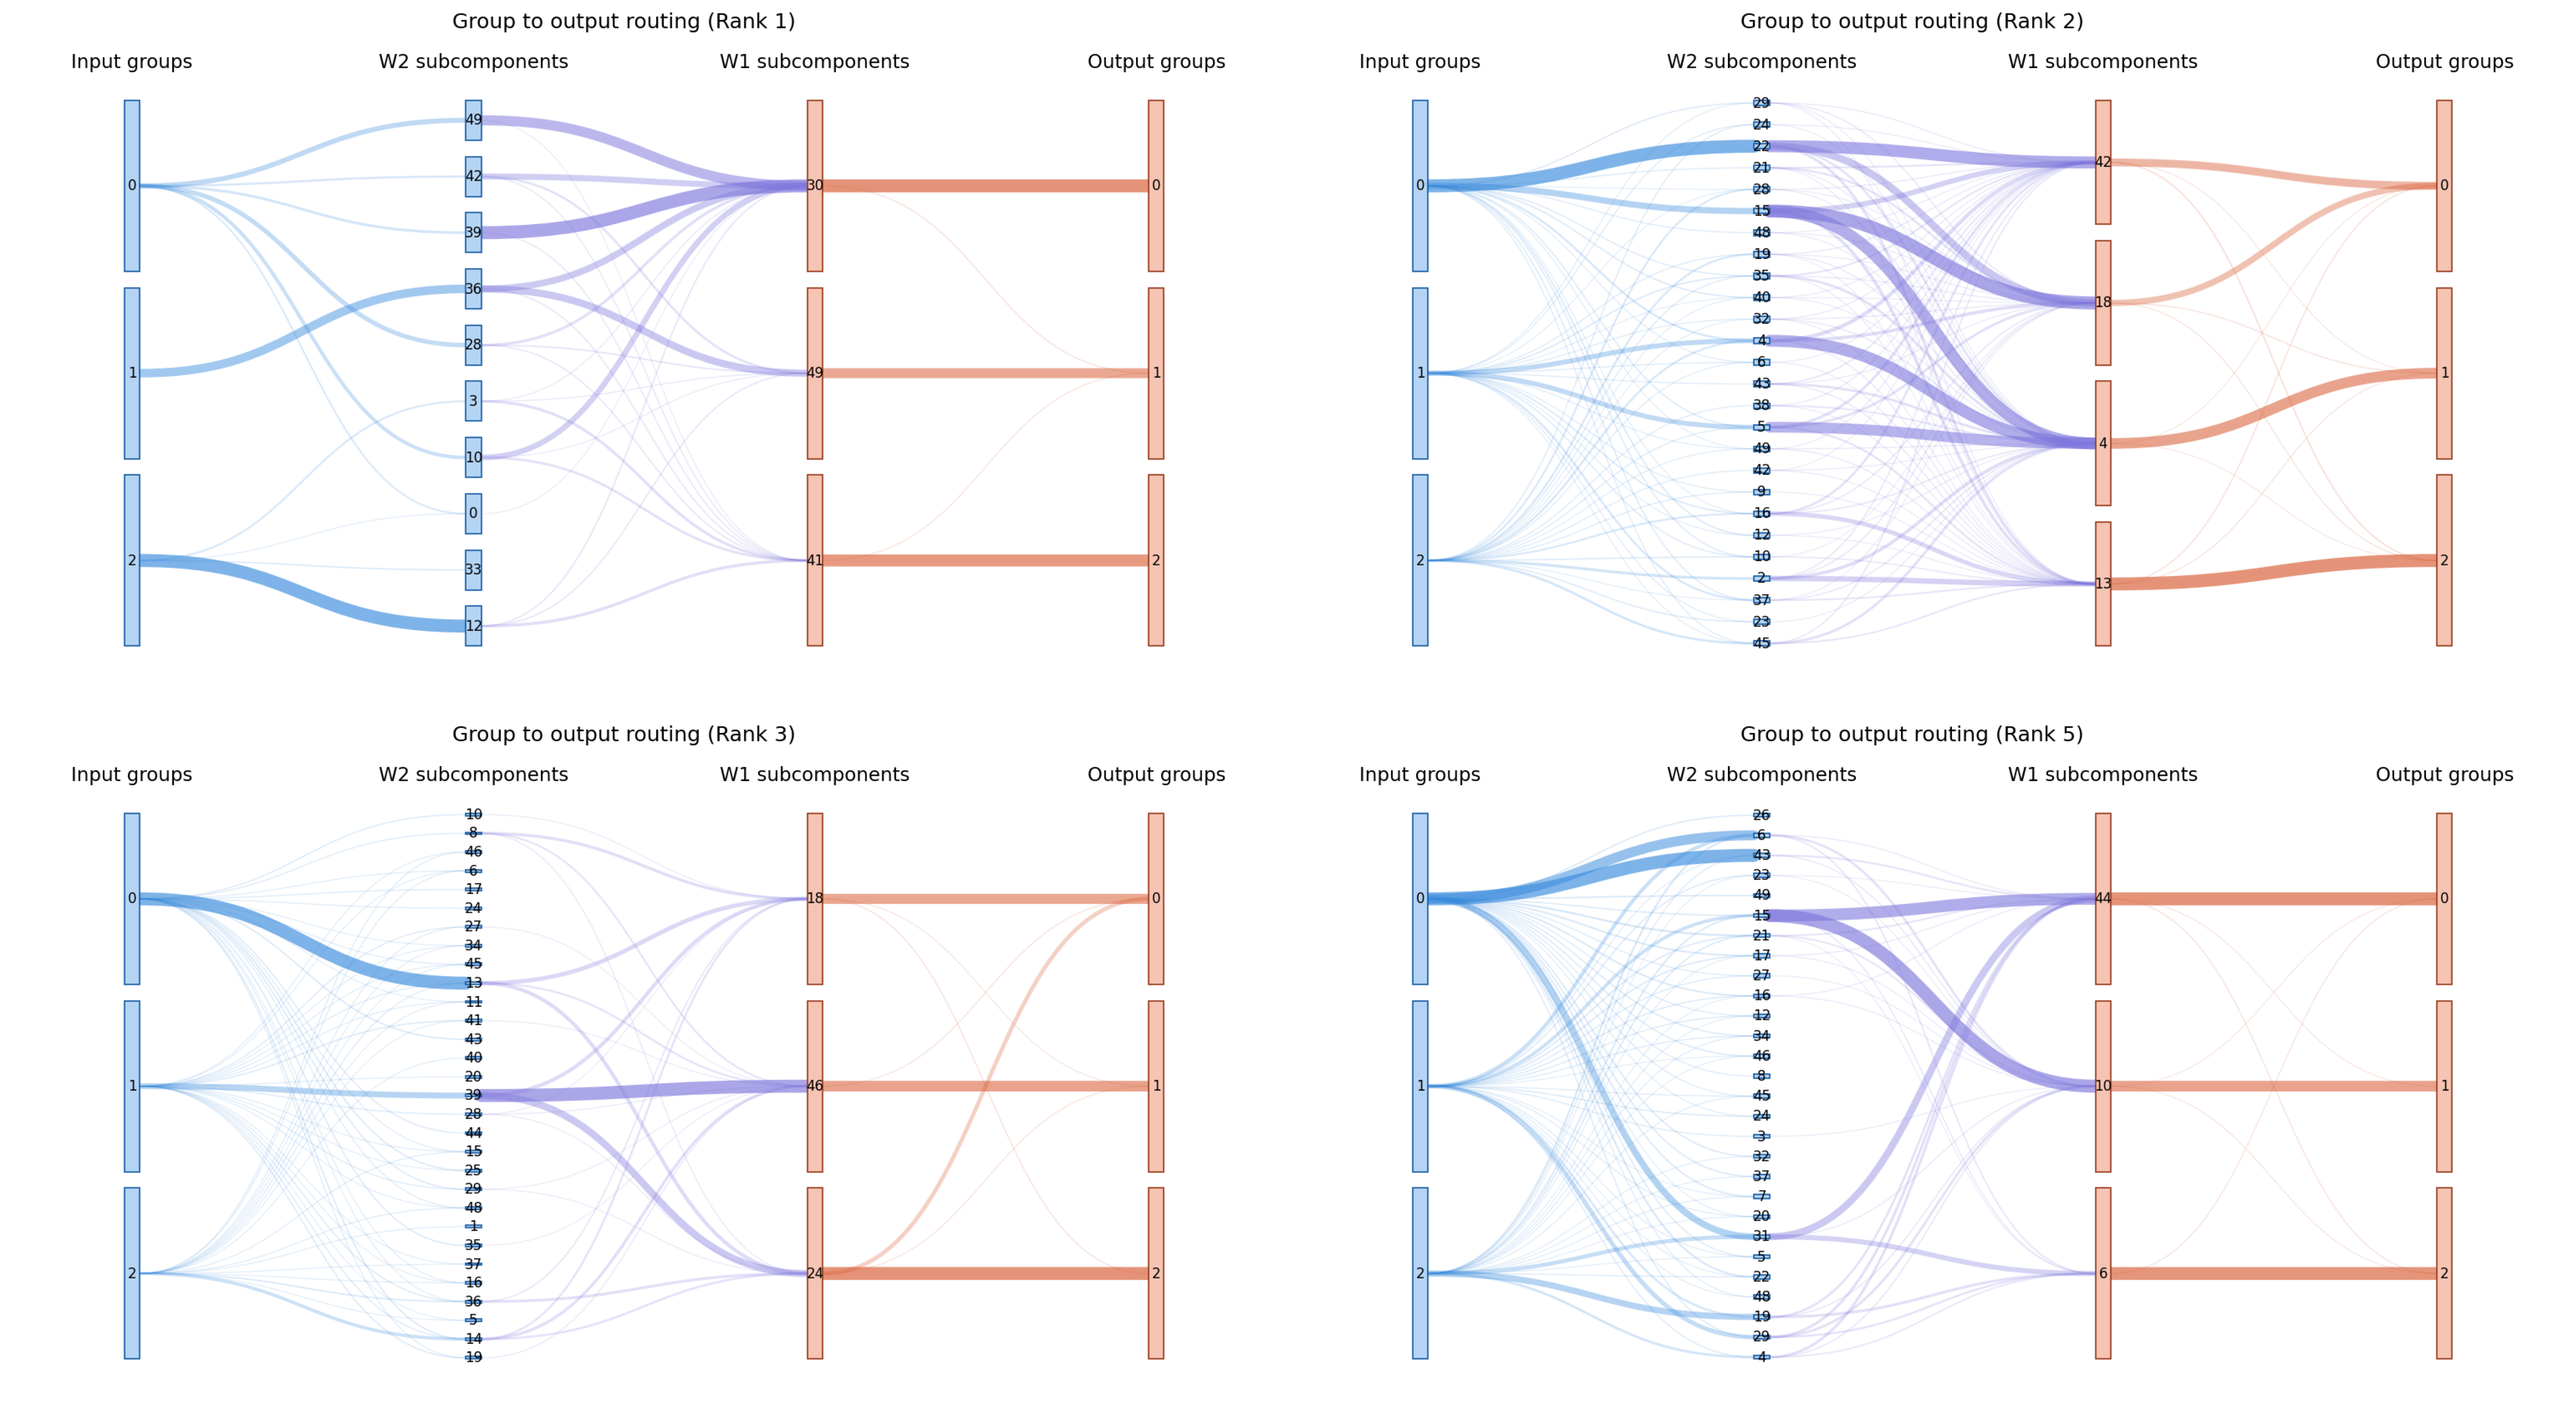
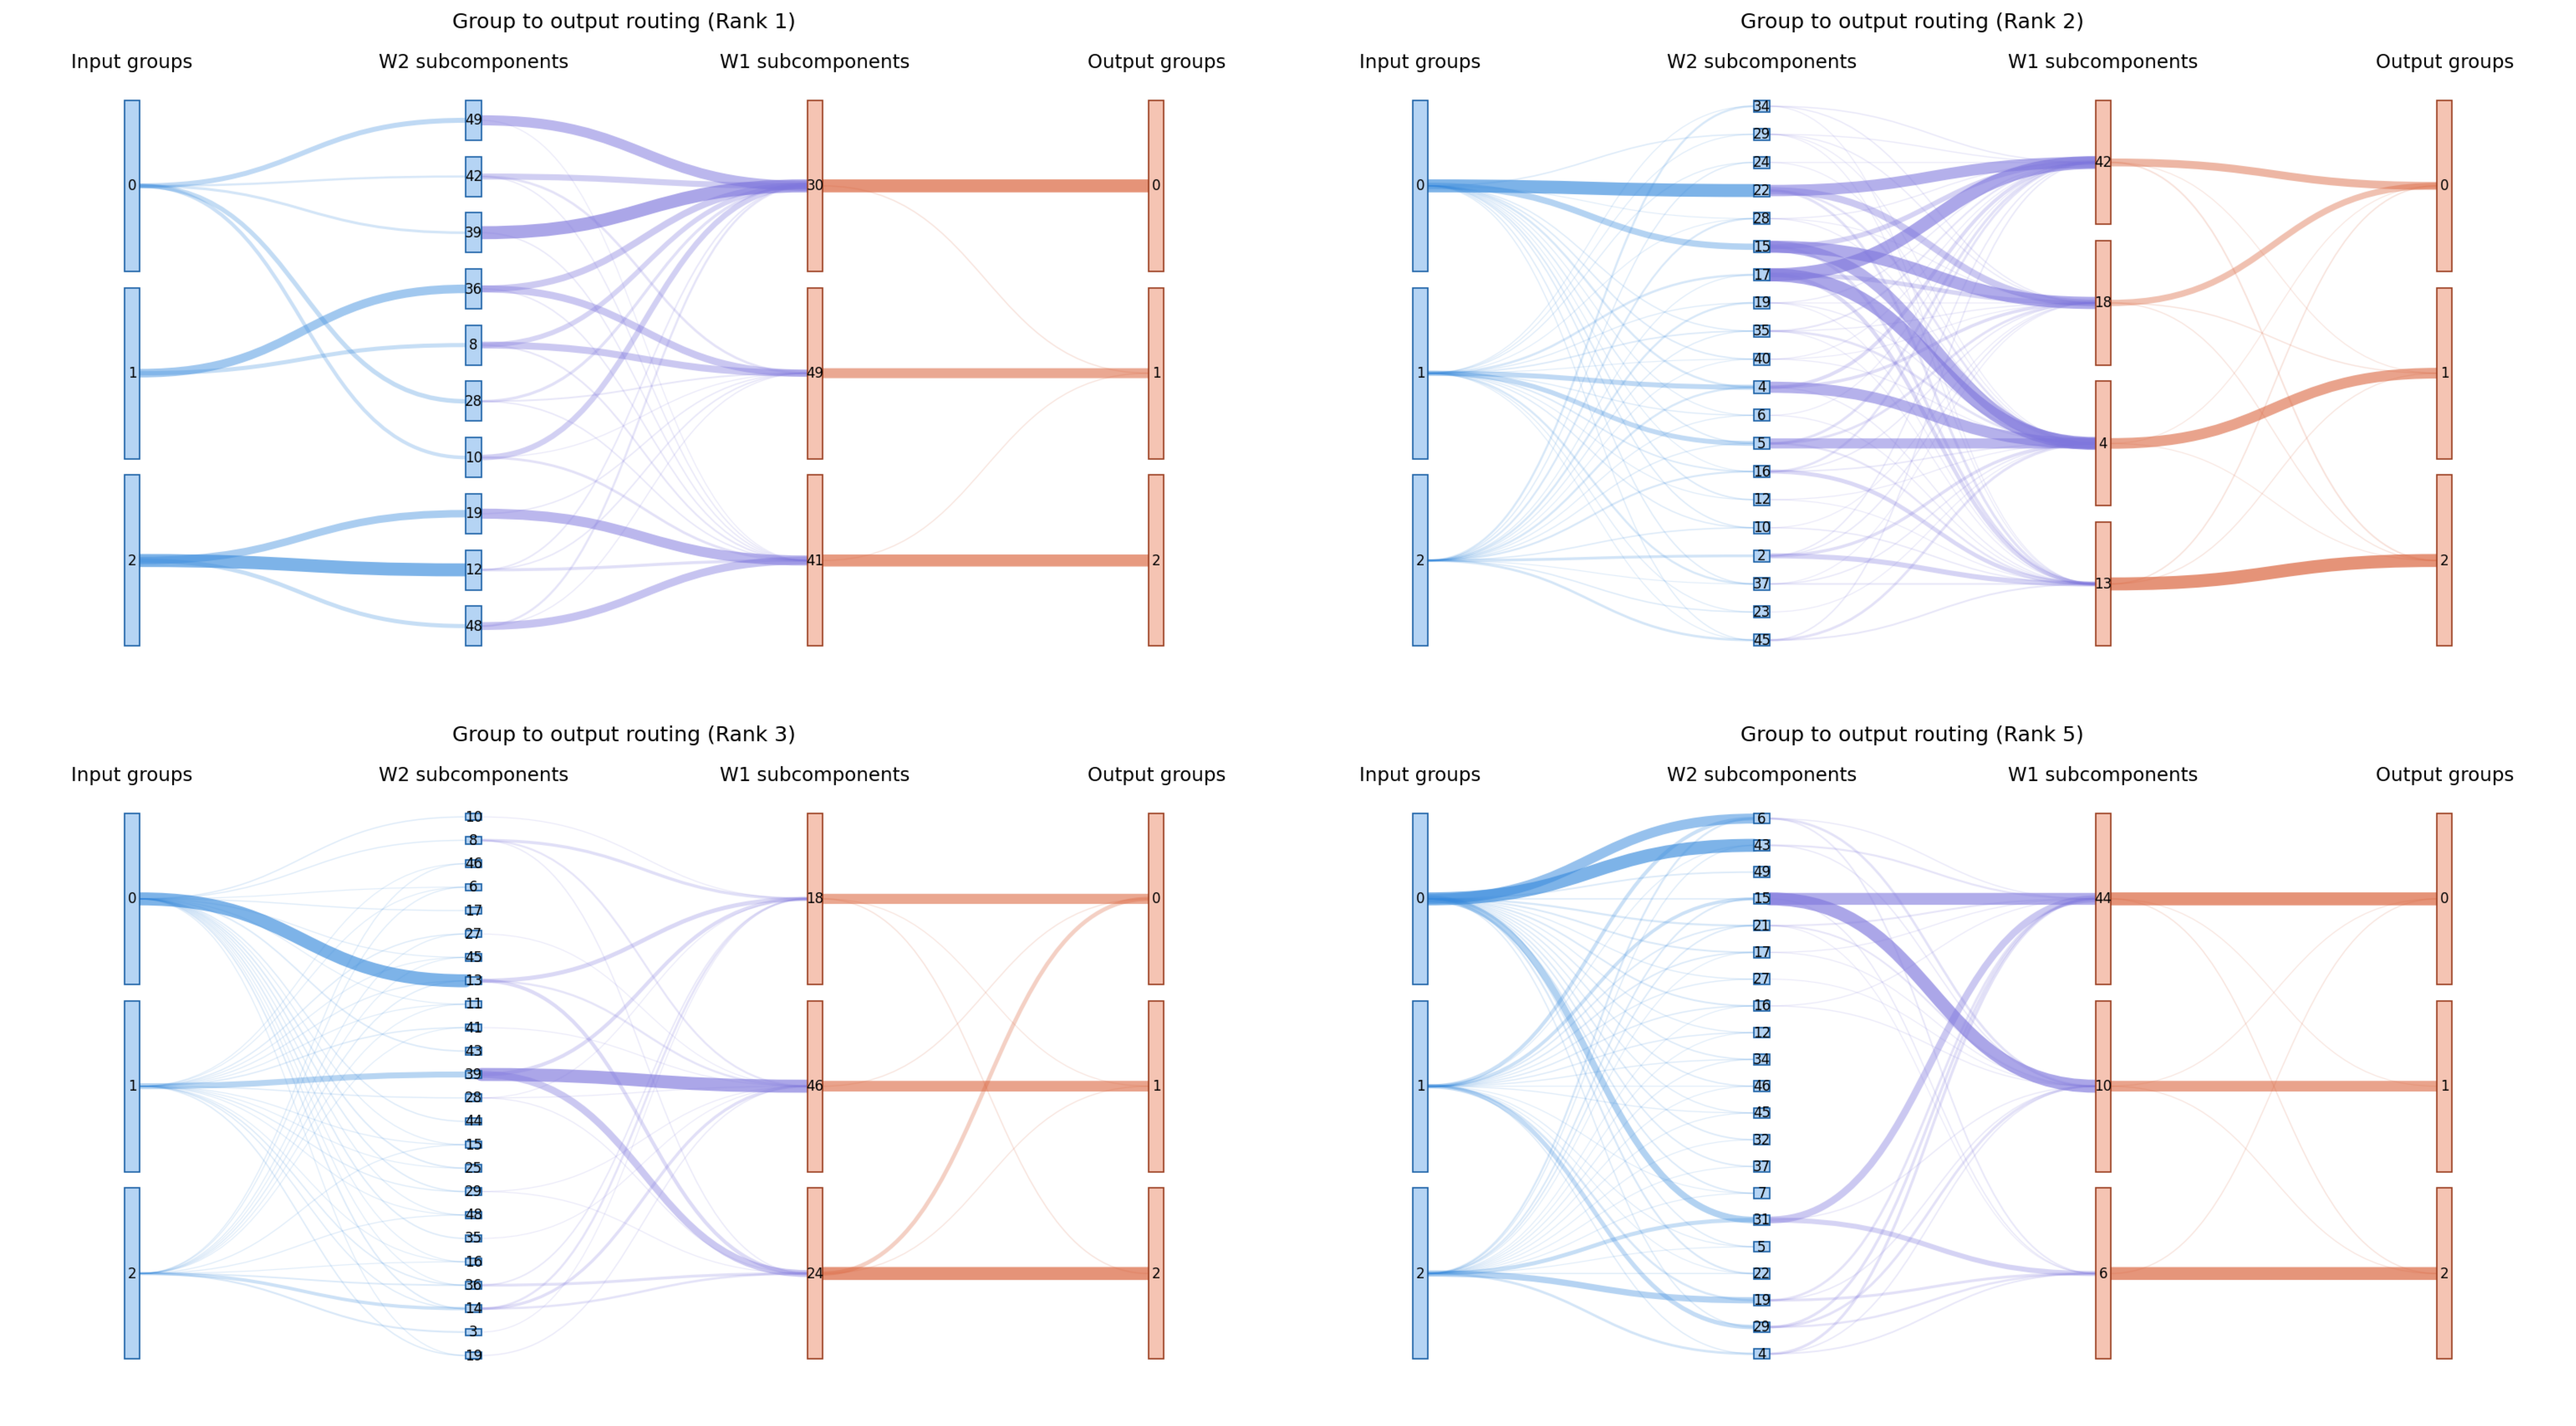
new images

diff --git a/spd/experiments/toy_model_of_geometry/geometry_analyzer.py b/spd/experiments/toy_model_of_geometry/geometry_analyzer.py
@@ -371,11 +371,14 @@ def pick_components(read, write, coverage=0.95, min_mass=0):
     #contrib2 = write.sum(axis=1)     # (C2,) total write per output subcomponent
     
     #Resorted to this version as the components would cancel each other out otherwise.
-    contrib1 = np.maximum(read, 0).sum(axis=1)      # (C1,) total positive read per input subcomponent
-    contrib2 = np.maximum(write, 0).sum(axis=1)     # (C2,) total positive write per output subcomponent
+    contrib1 = np.abs(read).sum(axis=1)    # (C1,) input-side inflow
+    contrib2 = np.abs(write).sum(axis=1)   # (C2,) output-side outflow
 
     def cover(v):
-
+        live = np.where(v >= min_mass)[0]
+        if live.size == 0:
+            raise ValueError("No components meet the minimum mass requirement.")
+        
         order = np.argsort(-v)
         cum = np.cumsum(v[order])
         total = cum[-1]
@@ -648,7 +651,7 @@ def main() -> None:
         (r"C:\Users\Knud\uni\spd\spd\experiments\toy_model_of_geometry\out\rank_plots\rank_8", "(Rank 8)")
     ]
     
-    model_dir = r"C:\Users\Knud\uni\spd\spd\experiments\toy_model_of_geometry\out\smaller_test"
+    model_dir = r"C:\Users\Knud\uni\spd_original\spd\experiments\toy_model_of_geometry\out\smaller_test"
     DEVICE = "cuda" if torch.cuda.is_available() else "cpu"
 
     for run_dir, run_title in run_dirs:
@@ -661,11 +664,18 @@ def main() -> None:
             map_location=DEVICE,
         )
 
+            
+            
+
         A1 = state_dict["components.linear1.A"]
         B1 = state_dict["components.linear1.B"]
 
         A2 = state_dict["components.linear2.A"]
         B2 = state_dict["components.linear2.B"]
+
+
+
+
         W1 = einops.einsum(A1, B1, "d_in C K, C K d_out -> d_out d_in").detach().cpu().numpy()
         W2 = einops.einsum(A2, B2, "d_in C K, C K d_out -> d_out d_in").detach().cpu().numpy()
         
@@ -673,10 +683,22 @@ def main() -> None:
         C1 = einops.einsum(A1, B1, "d_in C K, C K d_out -> C d_out d_in").detach().cpu().numpy()
         C2 = einops.einsum(A2, B2, "d_in C K, C K d_out -> C d_out d_in").detach().cpu().numpy()
 
+        if run_dir == r"C:\Users\Knud\uni\spd_original\spd\experiments\toy_model_of_geometry\out\minimality_sweep\0.00001":
+            test = C1[:, :, 6:12]
+            print(test.shape)
+            result = test.sum(axis=2)
+            result = result.sum(axis=1)
+            print("result[36] =", result[36])
+            print("result.sum() =", result.sum())
+            ratio = result[36] / np.abs(result).sum()
+
+            print("ratio =", ratio)
+                        
+
         group_features, _, _ = get_group_features(ranks)
 
         plot_group_output_matrix(W1, W2, group_features, save_dir=RUN_DIR, title="Group output matrix " + run_title)
-        plot_io_routing_chain(C1, C2, group_features, save_dir=RUN_DIR, title="Group to output routing " + run_title, coverage=0.95, edge_frac=0.005, min_mass=0)
+        plot_io_routing_chain(C1, C2, group_features, save_dir=RUN_DIR, title="Group to output routing " + run_title, coverage=0.90, edge_frac=0.005, min_mass=0,sort_nodes=True, sweeps=10)
     
     
     model_dir = Path(model_dir)
@@ -691,6 +713,10 @@ def main() -> None:
     group_features, _, _ = get_group_features(ranks)
 
     plot_input_hidden_output_translation(W1, W2, group_features, save_dir=model_dir, title="Layered translation from input groups to outputs")
-
+    # plot_io_routing_chain(
+    #     A1, B1, group_features, model_dir,
+    #     title="Input → hidden → output routing chain (components, smaller test)",
+    #     components=False,
+    # )
 if __name__ == "__main__":
     main()  
